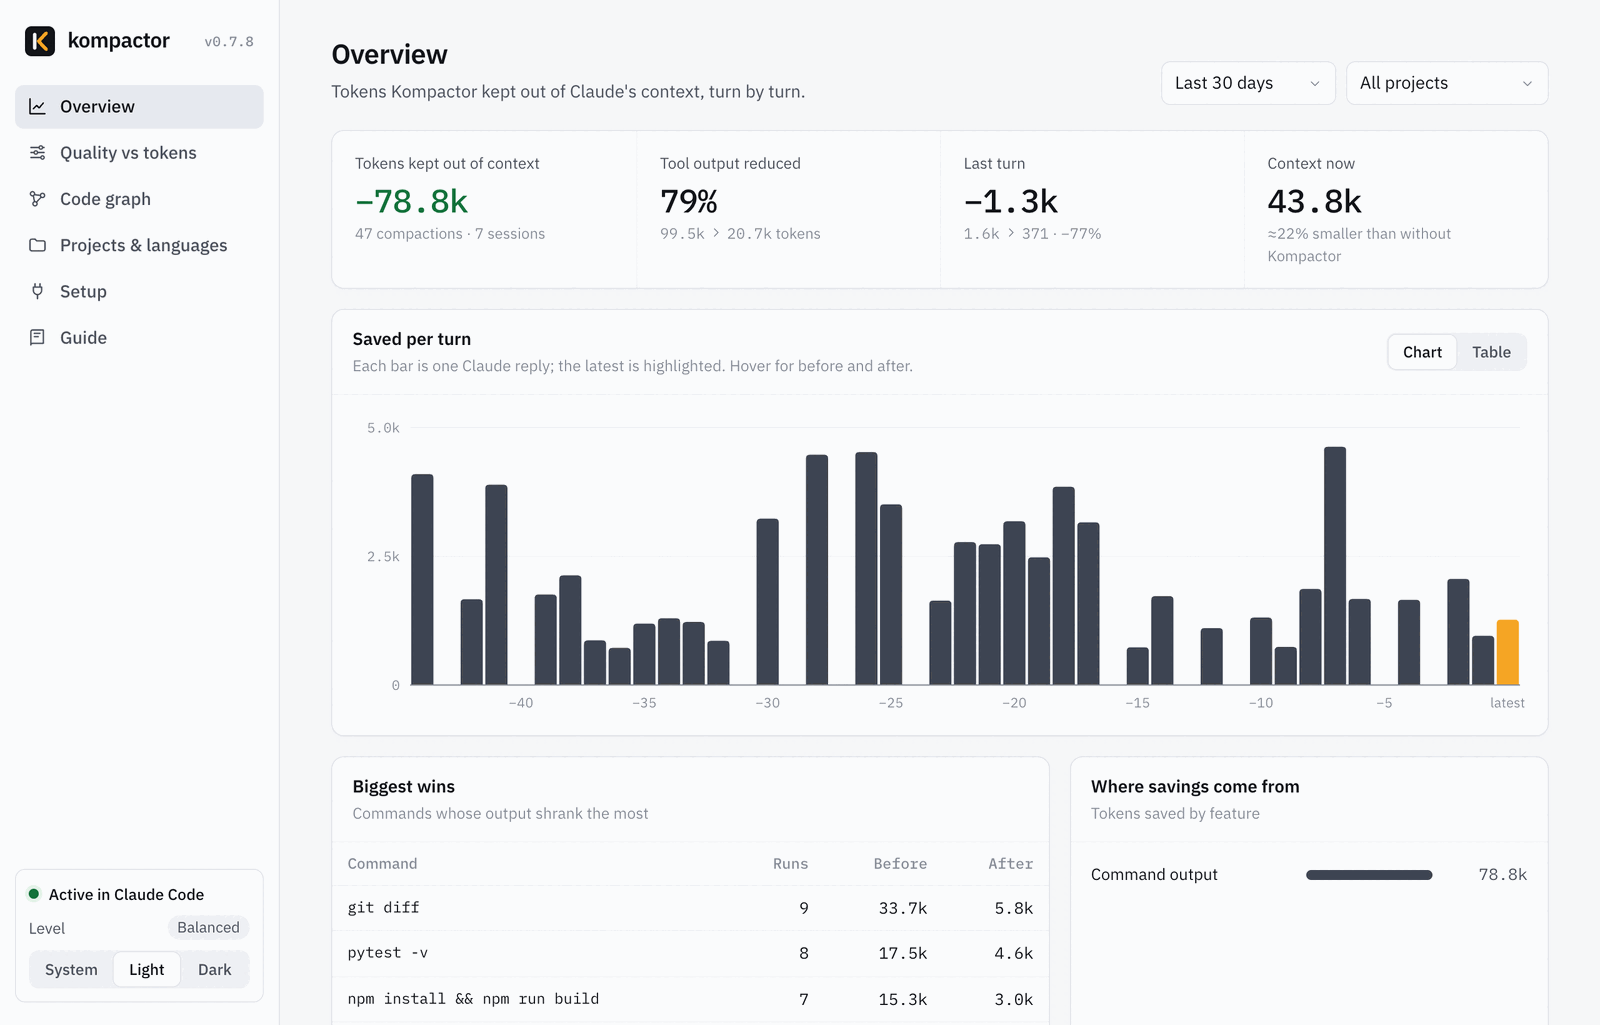
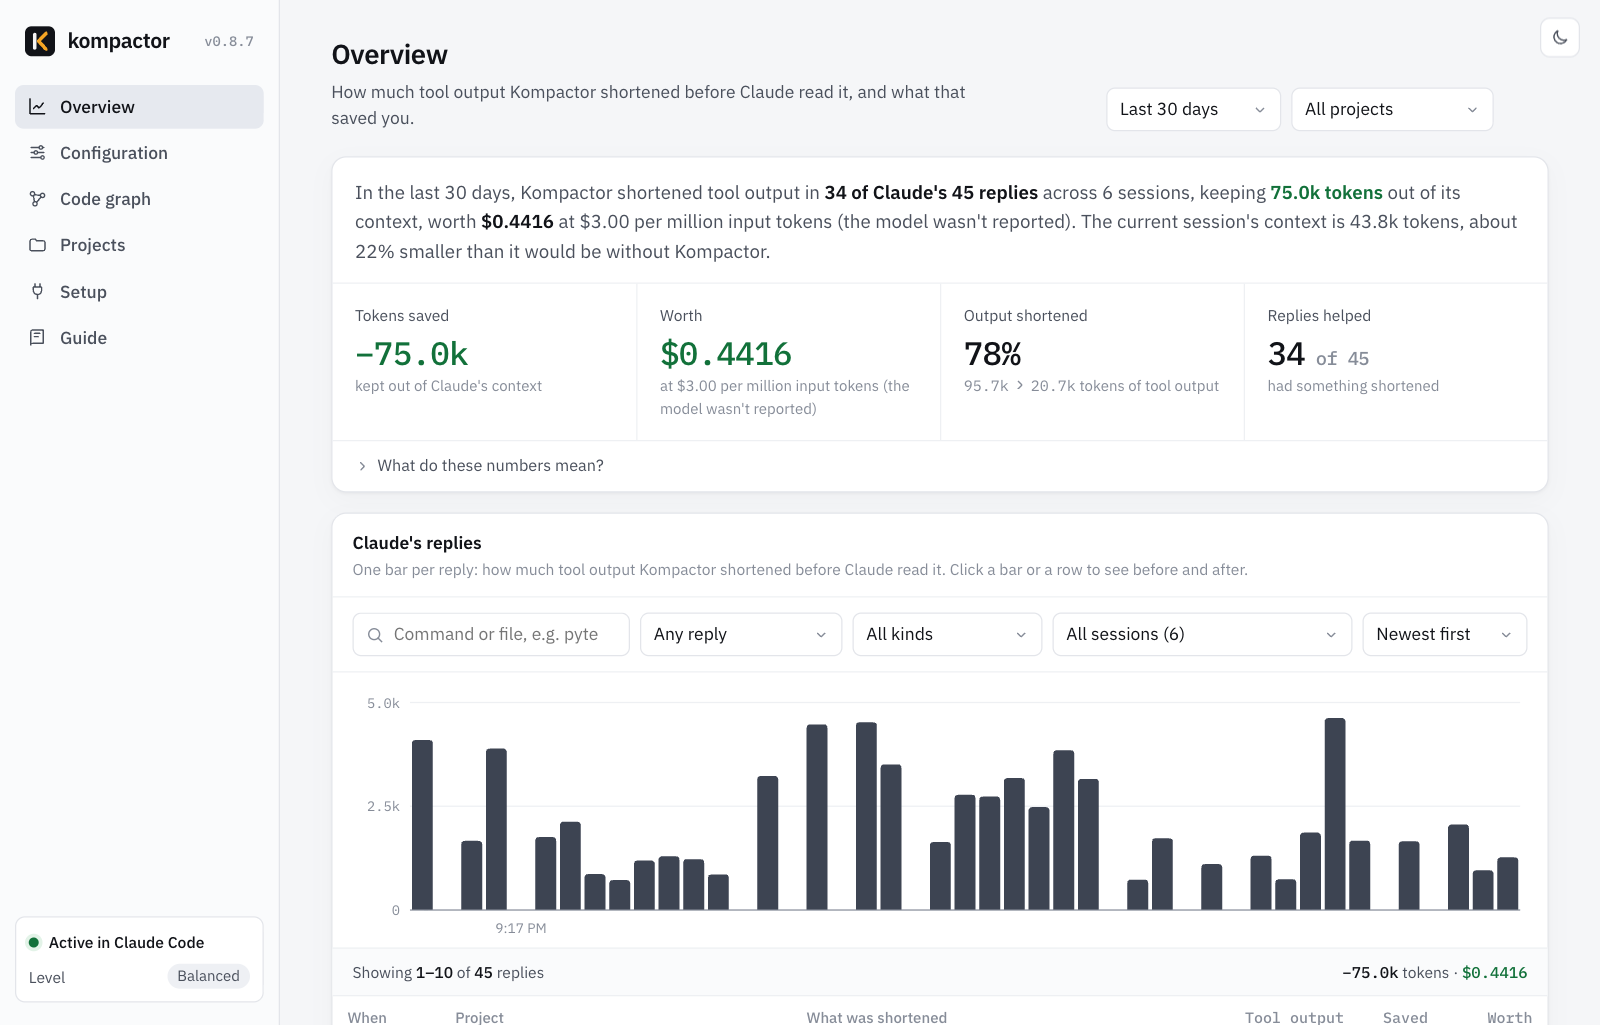
Refresh dashboard screenshots for 0.8.7
Overview, Configuration (benchmark savings on each level card), Code
graph of Flask and the team setup card, taken from the current
dashboard with demo data. The VS Code sidebar shot is unchanged.

diff --git a/README.md b/README.md
@@ -262,7 +262,7 @@ The numbers are conservative: they count only what Claude would really have read
 
 ## Code graph
 
-![Code graph of Flask: a 395-token map instead of 165.8k tokens of source, and a search for "session cookie"](https://raw.githubusercontent.com/amarkum/kompactor/main/docs/dashboard-graph.png)
+![Code graph of Flask: a 395-token map instead of 299.8k tokens of source, and a search for "session cookie"](https://raw.githubusercontent.com/amarkum/kompactor/main/docs/dashboard-graph.png)
 
 A local index of your repository: functions, classes, imports and calls, plus the sections of your Markdown and reStructuredText docs and the code they mention, so `impact` and `explain` also name the docs to update. It builds in about a second (Flask: 84 files in 0.35 s), refreshes in the background after edits, and is never sent anywhere or written into your repo. Claude uses it on its own; you can query it too:
 
